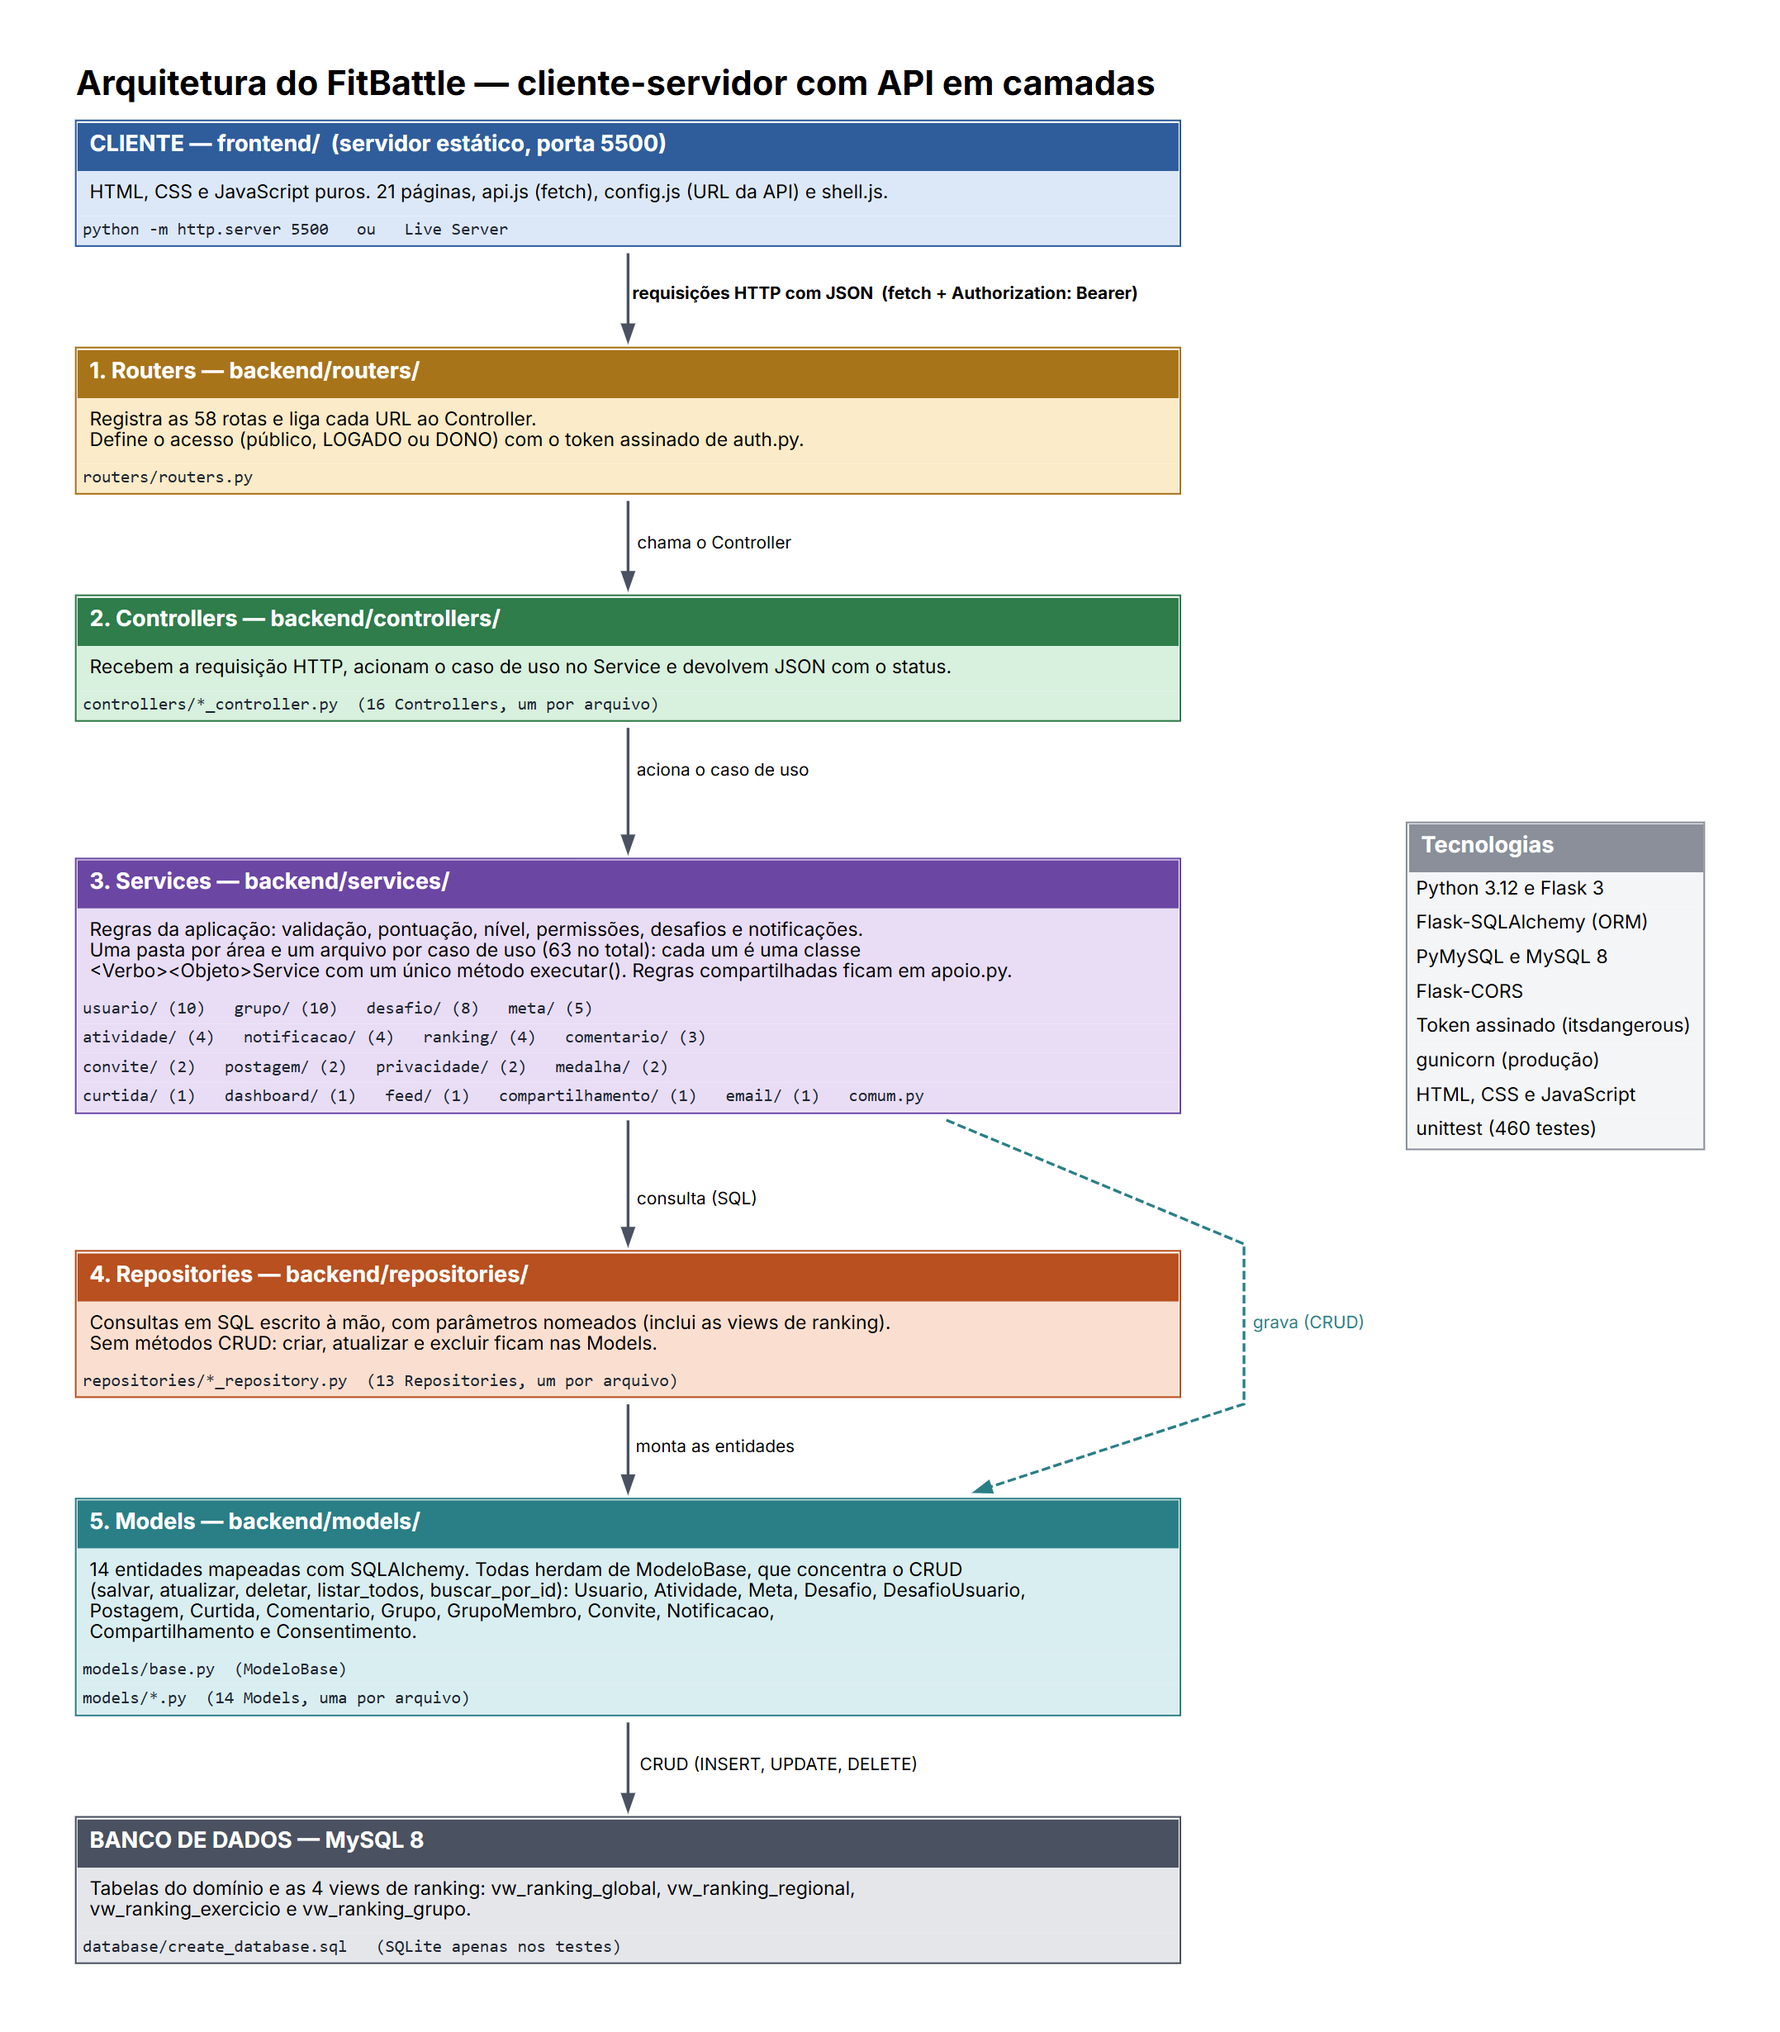
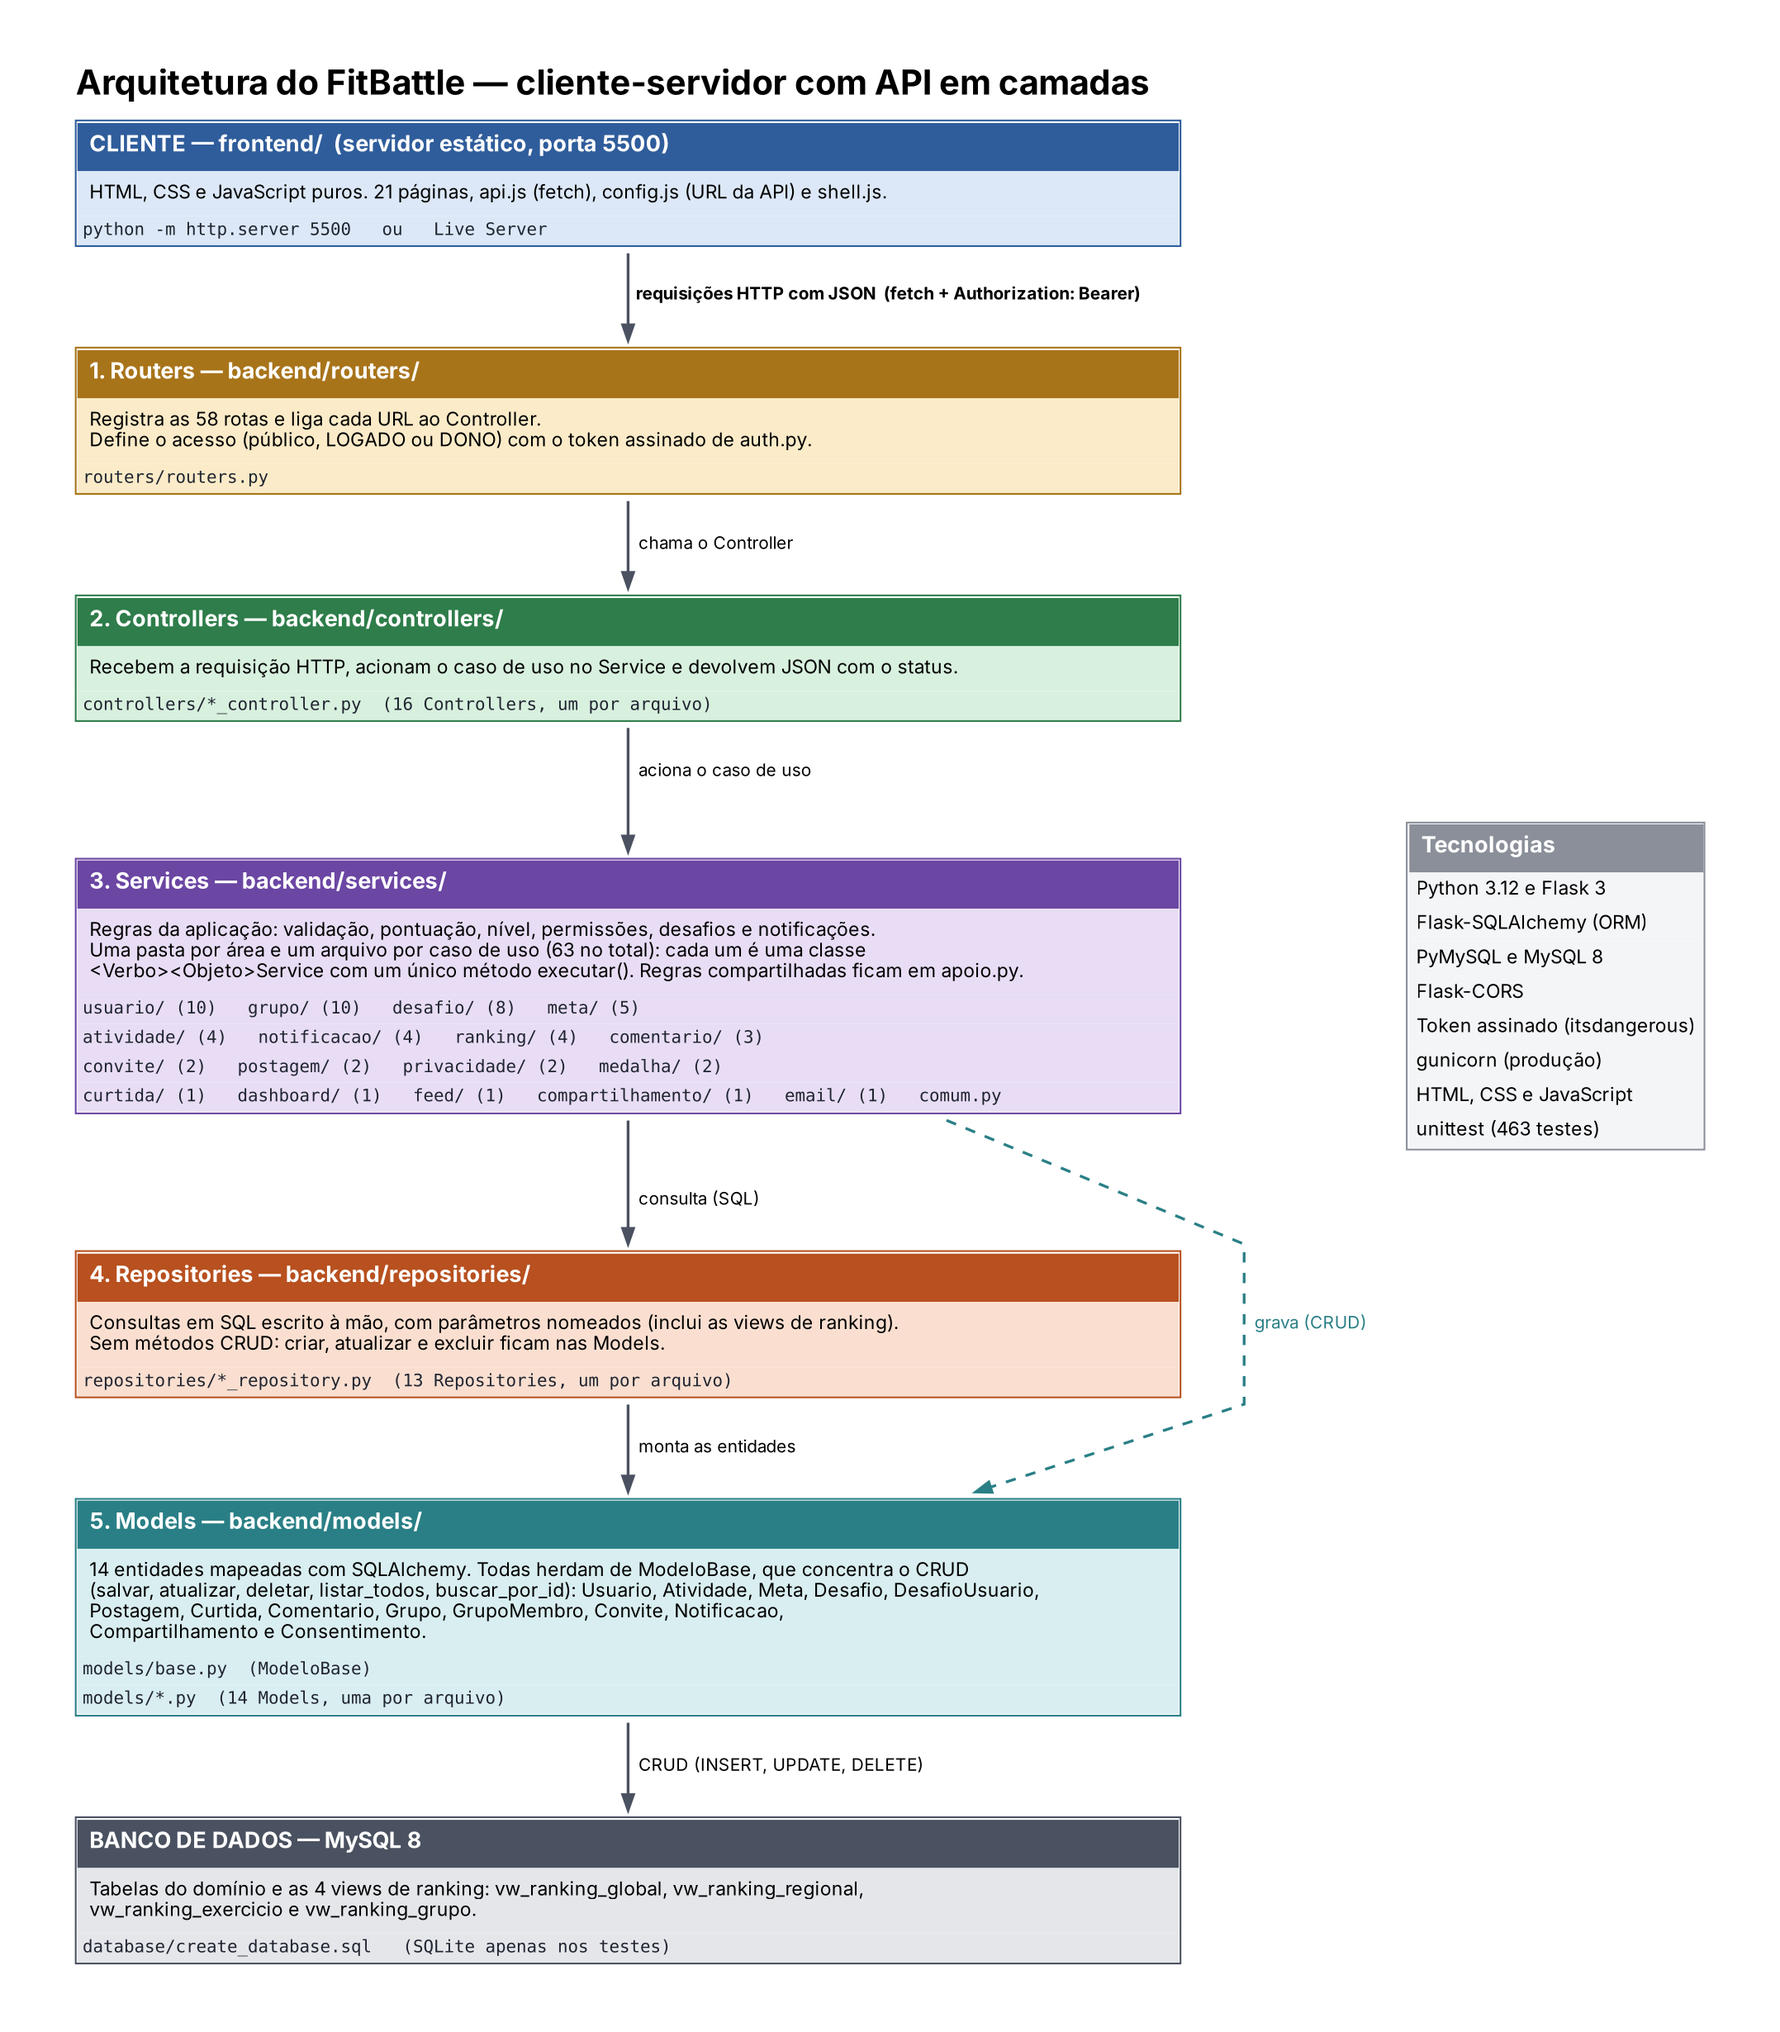
Substitui figuras de docs pelas versoes finais e atualiza contagem para 463
As quatro figuras de arquitetura e estrutura de diretorios passam a ser as
versoes finais, com 463 testes. O README acompanha a contagem.

diff --git a/README.md b/README.md
@@ -161,7 +161,7 @@ Hoje (conferido direto na árvore de arquivos): 58 rotas registradas em
 classes `Repository` em `repositories/` (uma por arquivo), 14 classes `Model`
 em `models/` (uma por arquivo, todas herdando de `ModeloBase`), 10 arquivos
 `apoio.py` em `services/` (um por área que precisa de lógica compartilhada),
-mais um `apoio.py` em `controllers/` e um em `repositories/`, e 460 testes.
+mais um `apoio.py` em `controllers/` e um em `repositories/`, e 463 testes.
 
 | Caso de uso | Controller | Service | Repository |
 |---|---|---|---|
@@ -442,7 +442,7 @@ cd backend
 python -m unittest discover -s tests -t .
 ```
 
-460 testes atualmente, cobrindo autenticação/LGPD (incluindo as fronteiras de
+463 testes atualmente, cobrindo autenticação/LGPD (incluindo as fronteiras de
 13 e 18 anos), robustez (uploads, limite de login, concorrência),
 grupos/convites, metas, compartilhamento, busca restrita (nome, cidade,
 menores de idade, perfil revogado), rankings, dashboard (estado vazio,
